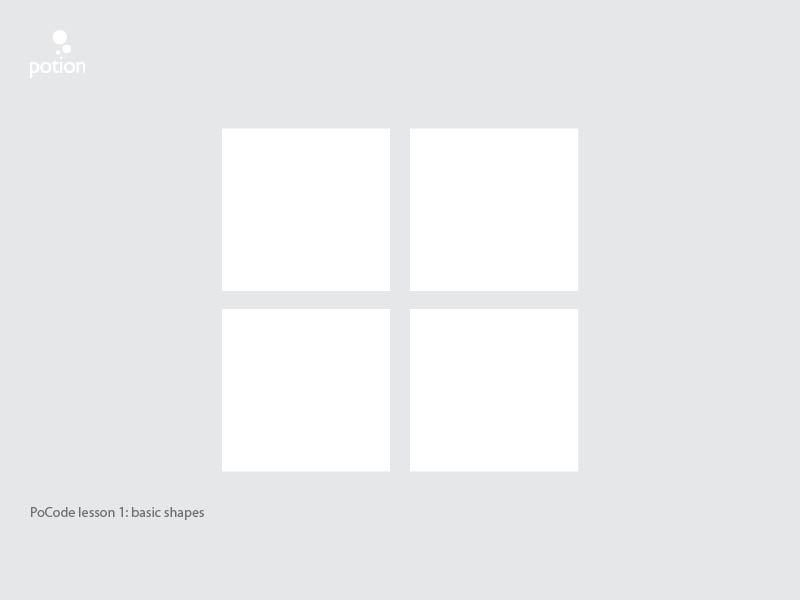
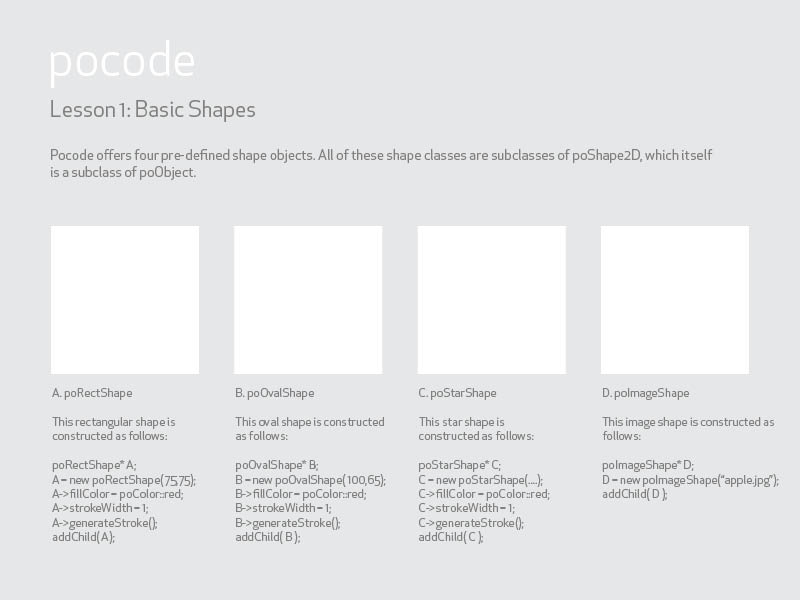
lesson 1: basic shapes

diff --git a/tutorials/01_BasicShapes/BasicShapes/BasicShapes/BasicShapesApp.cpp b/tutorials/01_BasicShapes/BasicShapes/BasicShapes/BasicShapesApp.cpp
@@ -2,6 +2,8 @@
 #include "poApplication.h"
 #include "poCamera.h"
 
+#include "poShapeBasics2D.h"				// include poShapeBasics2D.h to be able to use poShapes
+
 poObject *createObjectForID(uint uid) {
 	return new BasicShapesApp();
 }
@@ -21,61 +23,49 @@ BasicShapesApp::BasicShapesApp() {
     poRectShape* BG = new poRectShape("bg.jpg");
     addChild( BG );
 	
+	/////////////////////////////////////////
+	//
+	// LESSON 1. Basic Shapes
+	//
+	/////////////////////////////////////////
+	
 	// Make a rectangular shape
-    rectShape = new poRectShape( 80,70 );
-    rectShape->fillColor = poColor::yellow;			// Set the color, yellow
-	rectShape->generateStroke(2);					// Create a 2 pixel stroke around it
-	rectShape->strokeColor.set(0.8, 0.2, 0.5);		// Set the stroke color
-	rectShape->position.set( 307, 210, 0 );			// Set the position (x, y, z)
-	addChild( rectShape );							// Add the object, so it gets drawn on the screen
+	poRectShape* A;
+    A = new poRectShape(75, 75);
+    A->fillColor = poColor::red;			// Set the color, red
+	A->generateStroke(1);					// Create a 1 pixel stroke around it
+	A->strokeColor = poColor::black;		// Set the stroke color
+	A->position.set(88, 264, 0);			// Set the position (x, y, z)
+	addChild( A );							// Add the object, so it gets drawn on the screen
 	
 	// Make an oval shape
-	ovalShape = new poOvalShape( 130,130, 50 );		// 50 is the number of vertices to draw the circle
-    ovalShape->fillColor.set255(50, 180, 50);			// Set RGB color
-    ovalShape->position.set( 495, 210, 0 );
-    addChild( ovalShape );
+	poOvalShape* B;
+	B = new poOvalShape(100, 65, 50);		// 50 is the number of vertices to draw the circle
+	B->fillColor = poColor::red;
+	B->generateStroke(1);
+	B->strokeColor = poColor::black;
+	B->position.set(310, 300, 0);
+	addChild( B );
+	
+	// Make a star shape
+	poStarShape* C;
+//	C = new poStarShape(100, 100, 20, 30);
+	C = new poStarShape(50, 20, 20);
+	C->fillColor = poColor::red;
+	C->generateStroke(1);
+	C->strokeColor = poColor::black;
+	C->position.set(490, 300, 0);
+	addChild( C );
 	
     // Make a rectangular shape with an image
-    rectShapeWithImage = new poRectShape( "apple.jpg" );
-    rectShapeWithImage->position.set( 245, 340, 0 );
-    rectShapeWithImage->scale.set( 0.5, 0.5, 1 );	// Scale the object in 3 dimensions (x, y, z)
-    addChild( rectShapeWithImage );
-	
-	// Make a custom shape, made of 4 vertices
-    customShape = new poShape2D();
-    customShape->addPoint( -30, -40 );				// Add a vertex to the shape, a poPoint
-    customShape->addPoint( 60, -50 );				// The coordinates are relative to the origin point of the shape
-    customShape->addPoint( 50, 30 );				// For more on poPoints see poPoint.h
-    customShape->addPoint( -50, 40 );
-    customShape->fillColor = poColor::orange;
-    customShape->position.set( 490, 390, 0 );
-    addChild( customShape );
-    
-	
-	// setAlignment() changes the origin point of the poShape
-	// Uncomment one of the following lines to modify rectShape's alignment
-
-//	rectShape->setAlignment(PO_ALIGN_TOP_LEFT);		// Default value
-//	rectShape->setAlignment(PO_ALIGN_TOP_CENTER);	// Top origin makes the shape move to the bottom
-//	rectShape->setAlignment(PO_ALIGN_TOP_RIGHT);	// Right origin point makes the shape move to the left
-//	rectShape->setAlignment(PO_ALIGN_CENTER_LEFT);
-	rectShape->setAlignment(PO_ALIGN_CENTER_CENTER);
-//	rectShape->setAlignment(PO_ALIGN_CENTER_RIGHT);
-//	rectShape->setAlignment(PO_ALIGN_BOTTOM_LEFT);
-//	rectShape->setAlignment(PO_ALIGN_BOTTOM_CENTER);
-//	rectShape->setAlignment(PO_ALIGN_BOTTOM_RIGHT);
+	poRectShape* D;
+	D = new poRectShape( "apple.jpg" );
+    D->scale.set(0.5, 0.5, 1);				// Scale the object in 3 dimensions (x, y, z)
+    D->position.set(615, 250, 0);
+    addChild( D );
 }
 
 BasicShapesApp::~BasicShapesApp() {
-}
-
-// update() is where you change things at every frame
-// This functions gets called every loop before the draw() function
-void BasicShapesApp::update() {
-	
-	// increasing the rotation on a poShape2D makes it rotate clock-wise
-	// rotation is expressed in degrees
-	customShape->rotation += 3;
 }
 
 void BasicShapesApp::eventHandler(poEvent *event) {

diff --git a/tutorials/01_BasicShapes/BasicShapes/BasicShapes/BasicShapesApp.h b/tutorials/01_BasicShapes/BasicShapes/BasicShapes/BasicShapesApp.h
@@ -1,21 +1,14 @@
-/*	Created by filippo on 11/14/11.
- *	Copyright 2011 __MyCompanyName__. All rights reserved.
+/*	Created by Potion on 11/14/11.
+ *	Copyright 2011 Potion. All rights reserved.
  */
 
 #include "poObject.h"
-#include "poShapeBasics2D.h"
 
 class BasicShapesApp : public poObject {
 public:
 	BasicShapesApp();
 	virtual ~BasicShapesApp();
 	
-	virtual void update();
 	virtual void eventHandler(poEvent *event);
 	virtual void messageHandler(const std::string &msg, const poDictionary& dict=poDictionary());
-	
-	poShape2D*      customShape;
-    poRectShape*    rectShape;
-    poRectShape*    rectShapeWithImage;
-    poOvalShape*    ovalShape;
 };
